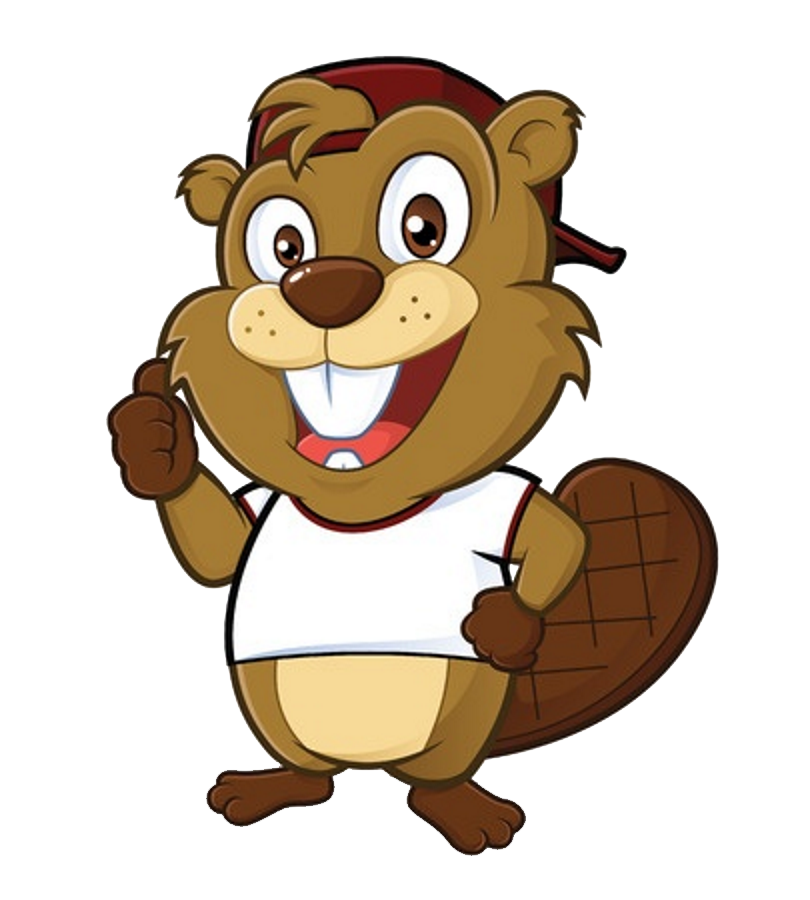
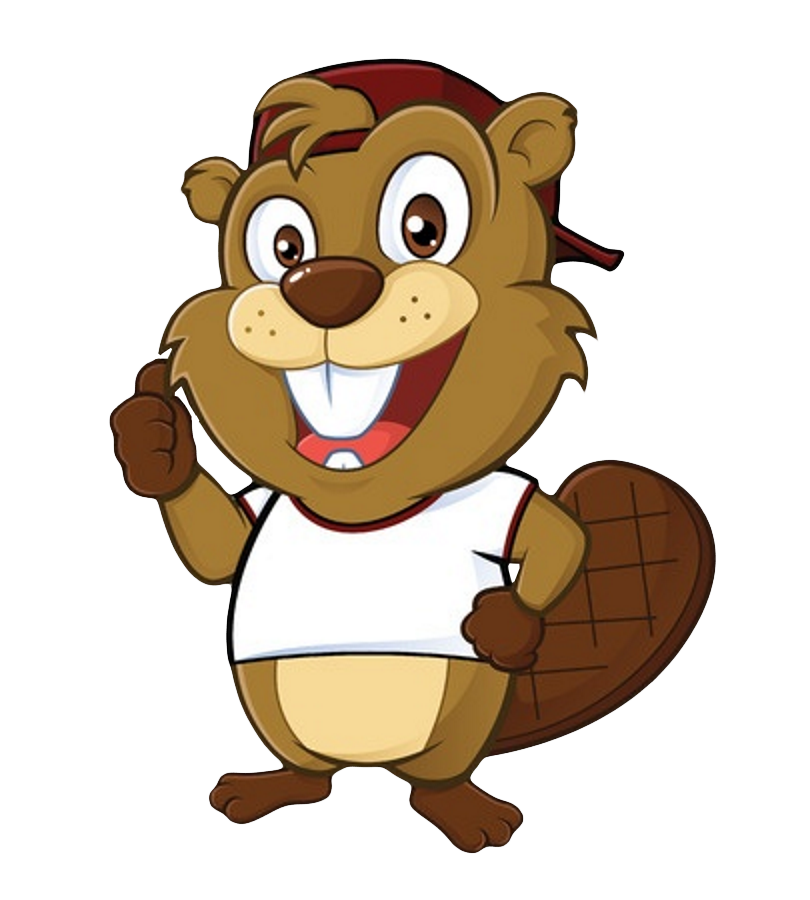
adicionando castor sem borda - filippe

diff --git a/index.html b/index.html
@@ -14,6 +14,10 @@
       integrity="sha384-JcKb8q3iqJ61gNV9KGb8thSsNjpSL0n8PARn9HuZOnIxN0hoP+VmmDGMN5t9UJ0Z"
       crossorigin="anonymous"
     />
+    <link
+      href="https://fonts.googleapis.com/css2?family=Poppins:ital,wght@0,200;0,300;0,400;0,500;0,600;0,700;0,800;0,900;1,200;1,300;1,400;1,500;1,600;1,700;1,800;1,900&display=swap"
+      rel="stylesheet"
+    />
     <script src="https://use.fontawesome.com/727e4db0ac.js"></script>
     <link rel="stylesheet" href="./css/styles.css" />
     <title>Editora Castor</title>
@@ -69,7 +73,7 @@
             <div class="col-md-6 col-md-6 align-self-center">
               <div class="align-self-center">
                 <div class="display-4">Lorem, ipsum dolor.</div>
-                <p>
+                <p class="lead">
                   Lorem ipsum dolor sit amet consectetur adipisicing elit.
                   Tenetur nobis quam inventore provident, facilis eaque.
                 </p>
@@ -91,7 +95,7 @@
 
             <div class="col-md-6 align-self-center">
               <div class="display-4">Lorem, ipsum dolor.</div>
-              <p>
+              <p class="lead">
                 Lorem ipsum dolor sit amet consectetur adipisicing elit. Tenetur
                 nobis quam inventore provident, facilis eaque.
               </p>
@@ -144,19 +148,17 @@
               class="mx-auto d-none d-md-block"
               width="100"
               src="./img/logo.png"
-              alt=""
+              alt="Logo da editora castor"
             />
           </div>
           <div
             class="col-md-4 col-sm-4 text-center align-items-center text-light"
           >
-            <div class="h6">
-              <a class="h4 text-light" href="">Sobre nos</a>
-            </div>
-            <p class="text-truncate">
+            <h4>Sobre</h4>
+            <p class="text-truncate lead">
               Lorem ipsum dolor sit amet consectetur adipisicing elit.
             </p>
-            <a href="./pages/sobre.html">Leia mais</a>
+            <a href="./pages/sobre.html" class="text-light">Leia mais</a>
           </div>
           <div class="col-sm-3 col-md-4 text-center align-items-center">
             <h4 class="h4 text-light">Navegação</h4>
@@ -182,7 +184,7 @@
                     <a
                       href="./pages/contato.html"
                       class="nav-link ml-3 text-light"
-                      >Contatos</a
+                      >Contato</a
                     >
                   </li>
                 </ul>

diff --git a/pages/sobre.html b/pages/sobre.html
@@ -4,7 +4,7 @@
         <div class="col-md-6">
           <div class="m-auto">
             <div class="display-4 text-center">Bem Vindo ao site da Editora Castor!</div>
-            <p class = "text-center">
+            <p class = "lead text-justify">
               Somos um grupo de amantes de livros ambiciosos, e decidimos criar uma editora para publicarmos todos os livros
               que julgamos válidos para outros amantes de livros como nós. Só no primeiros mês da editora, já tinhamos acolhido
               3 projetos de livros diferentes para publicação, livros esses que foram um enorme sucesso. Temos prioridade
@@ -27,7 +27,7 @@
 
         <div class="col-md-6 align-self-center">
           <div class="display-4">Lorem, ipsum dolor.</div>
-          <p>
+          <p class="lead">
             Lorem ipsum dolor sit amet consectetur adipisicing elit. Tenetur
             nobis quam inventore provident, facilis eaque.
           </p>
@@ -43,7 +43,7 @@
           class="pt-3 col-sm-6 align-self-center text-center mx-auto d-block"
         >
           <address>
-            <strong class="h2">Serratec.</strong><br />
+            <strong class="h2">Serratec</strong><br />
             333 - 313 - Quitandinha,<br />
             Petrópolis - RJ, 25651-000<br />
             Telefone: (21) 9456-7890.

diff --git a/css/styles.css b/css/styles.css
@@ -1,3 +1,3 @@
-
-
-
+body {
+  font-family: "Poppins", sans-serif;
+}
